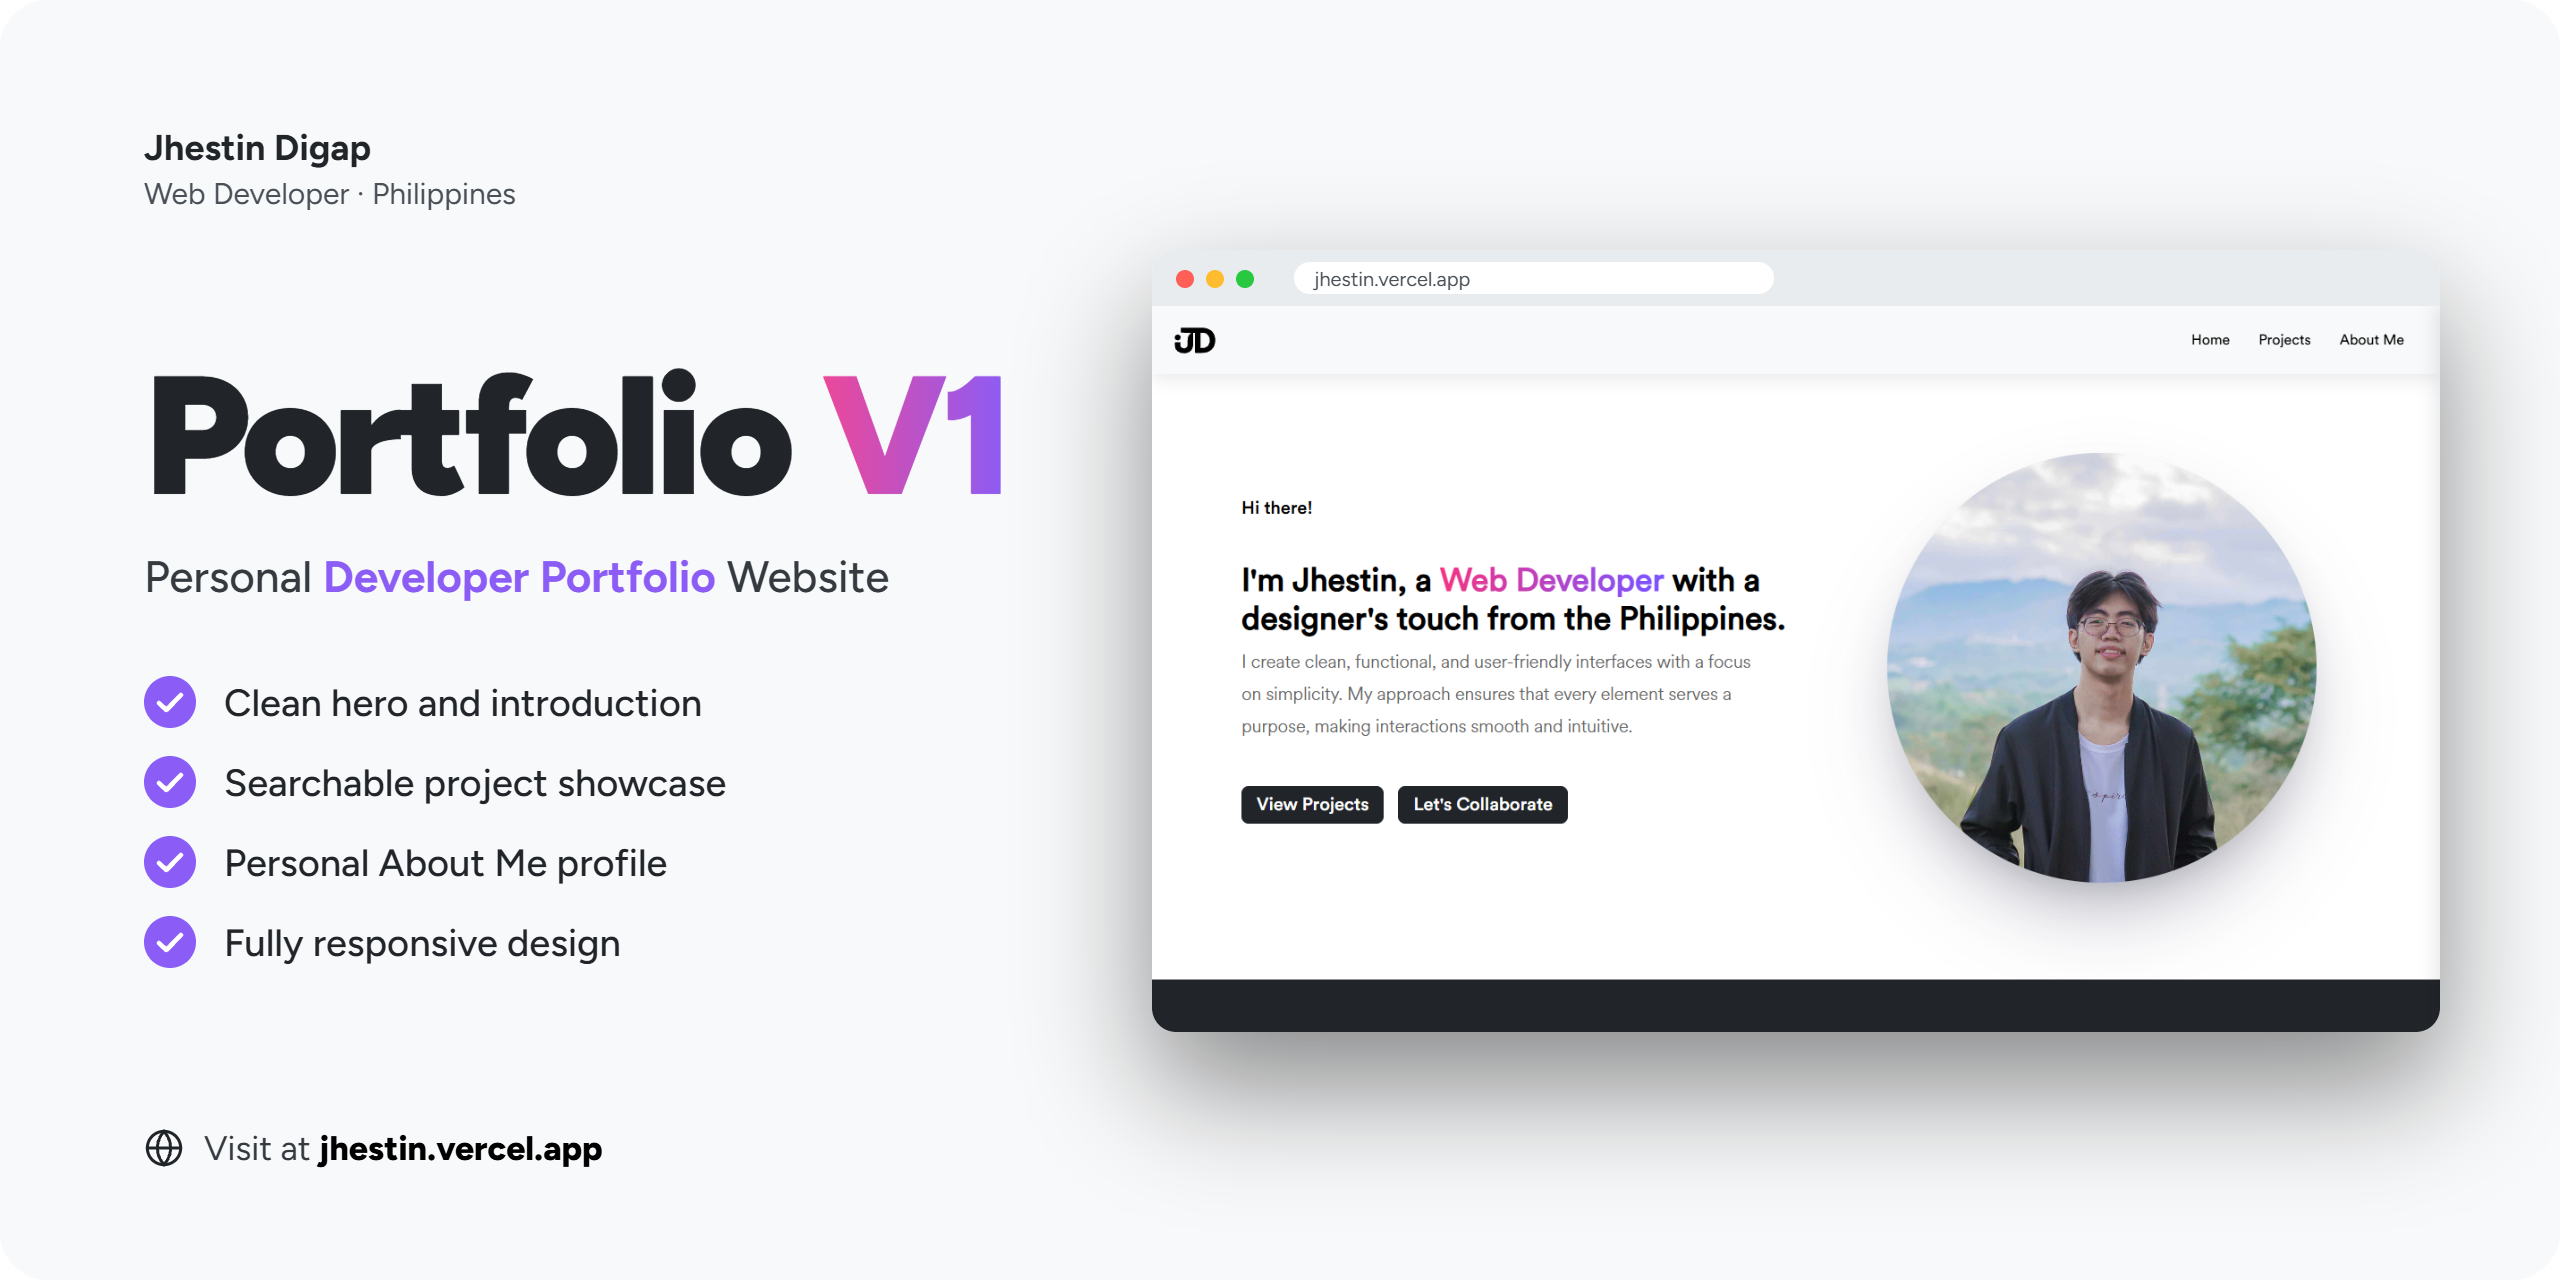
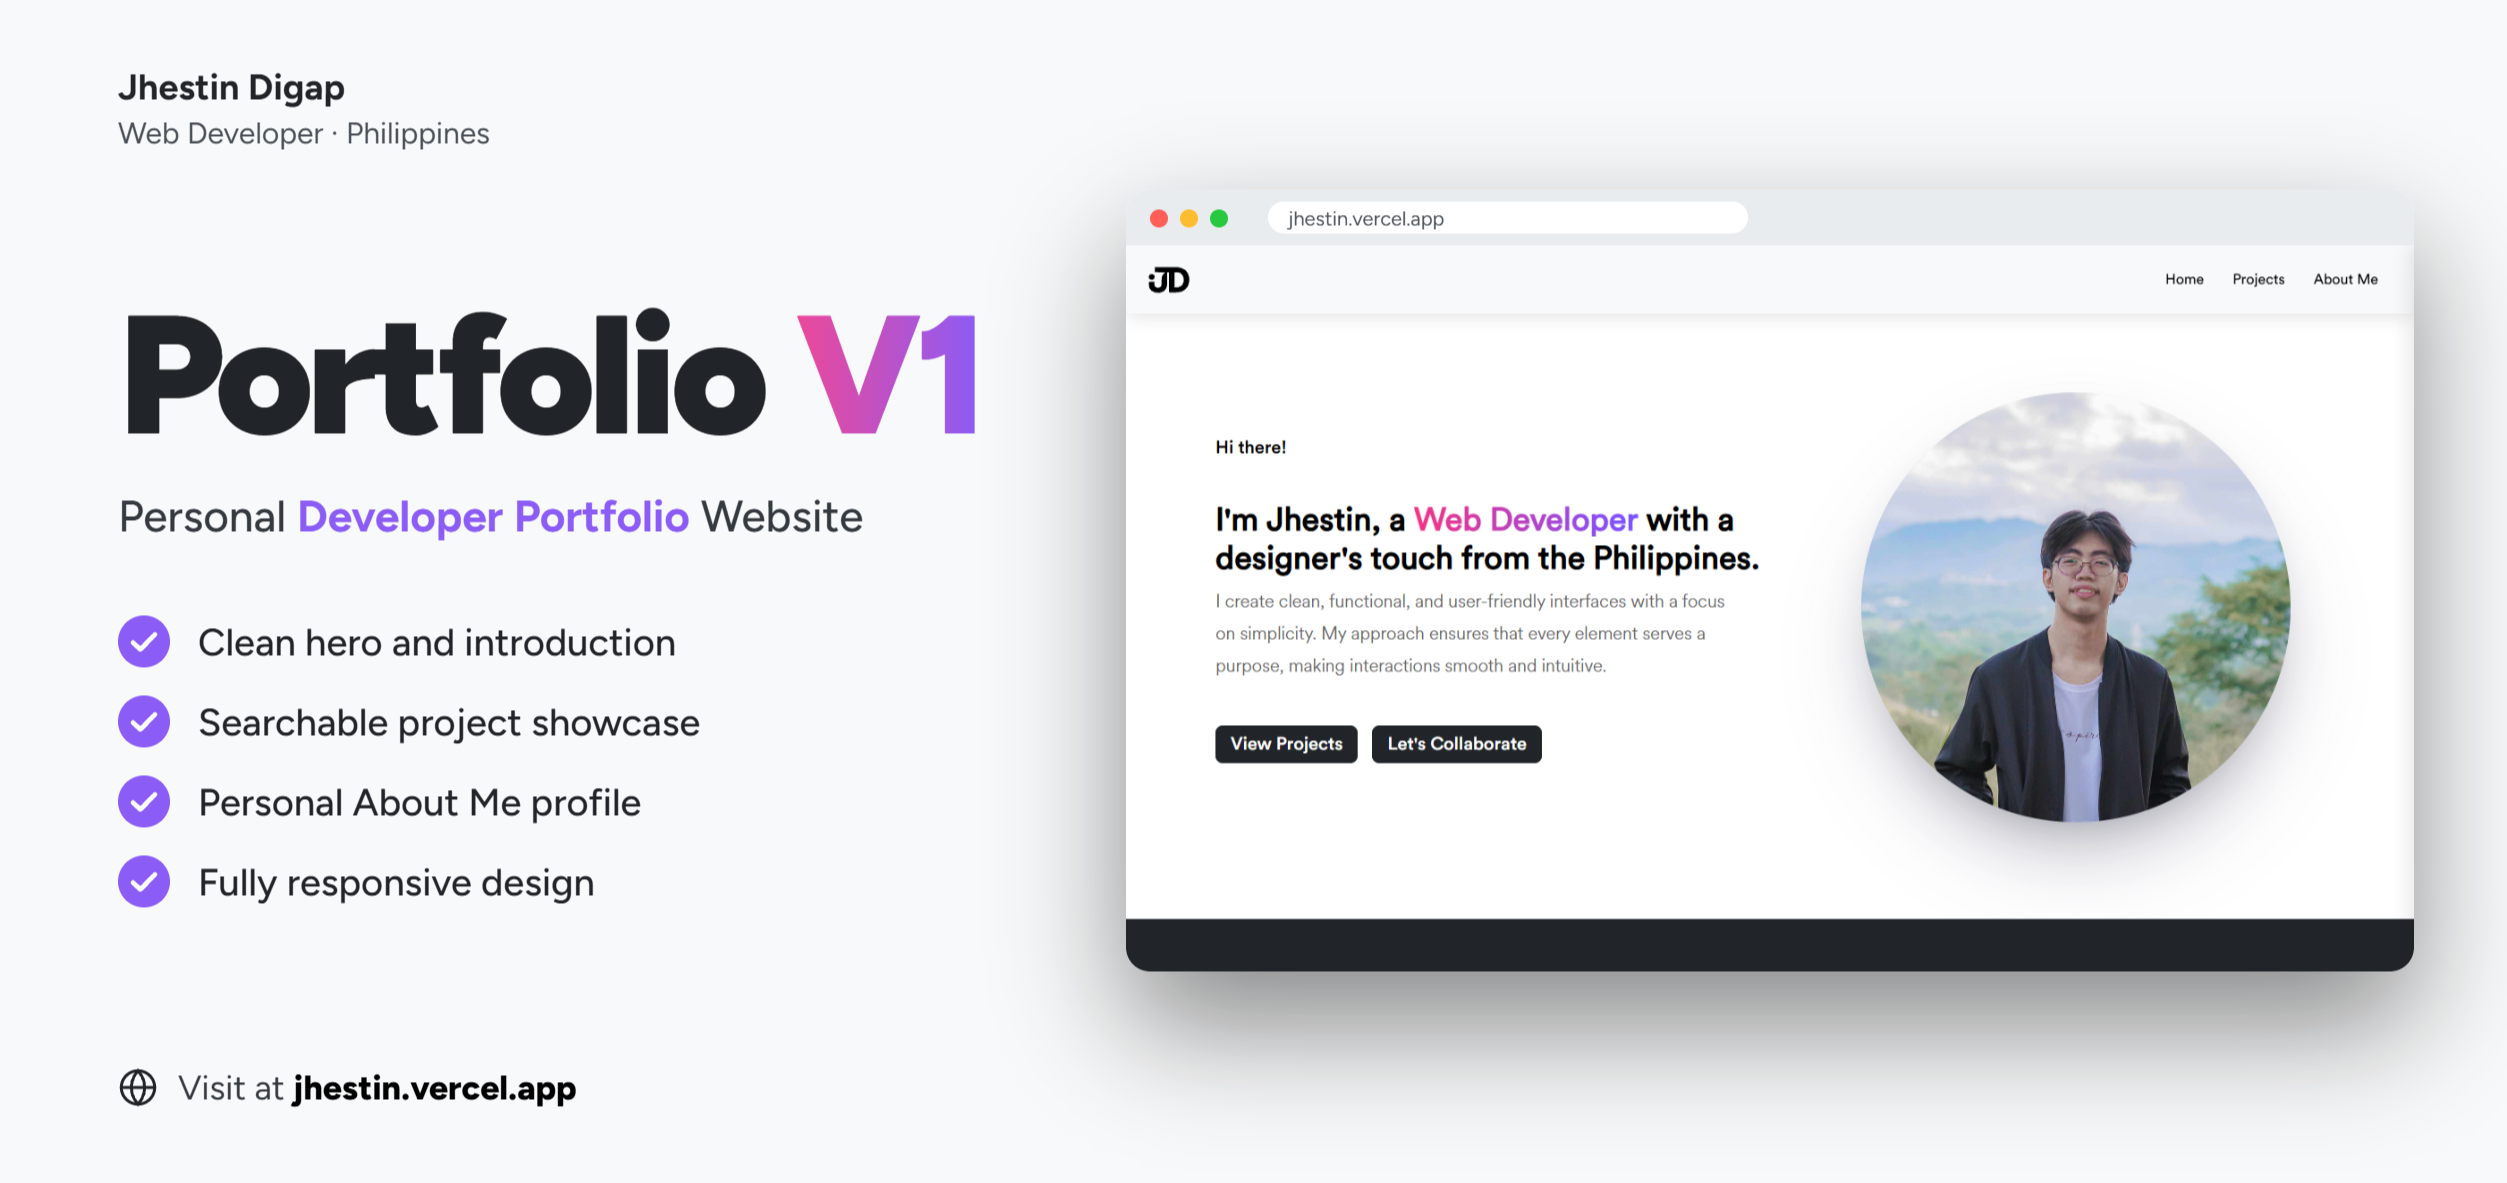
Projects: new Portfolio V1 and WeatherSense thumbnails
Portfolio V1 uses the updated 2507x1183 image; WeatherSense uses the new promo (projects/weathersense.png) with matching alt text. The old V1 weather.png is no longer referenced.

diff --git a/lib/data/projects.ts b/lib/data/projects.ts
@@ -125,8 +125,8 @@ export const portfolioV1: Project = {
     "My first personal portfolio, with a hero introduction, a searchable project showcase, an About Me profile and a fully responsive layout, built with plain HTML, CSS and JavaScript.",
   image: {
     src: "/projects/portfolio-v1.png",
-    width: 2560,
-    height: 1280,
+    width: 2507,
+    height: 1183,
     alt: "Portfolio V1 promo: a browser window showing the old site's hero, I'm Jhestin, a Web Developer with a designer's touch from the Philippines, beside a list of its features.",
   },
   stack: ["HTML", "CSS", "JavaScript", "AOS"],
@@ -175,10 +175,10 @@ export const weatherSense: Project = {
   summary:
     "My part of a group project: the UI for a mobile app that reads temperature and humidity from a DHT11 sensor.",
   image: {
-    src: "/projects/weather.png",
-    width: 1895,
-    height: 907,
-    alt: "WeatherSense mobile screens: a temperature gauge at 28 degrees, the splash screen, and a humidity gauge at 40 percent.",
+    src: "/projects/weathersense.png",
+    width: 2560,
+    height: 1209,
+    alt: "WeatherSense promo: two phones showing the welcome screen with Tap to Continue and a dashboard with a 29 degree temperature gauge and a 58 percent humidity gauge.",
   },
   stack: ["Figma"],
   links: { figma: FIGMA_WEATHERSENSE },
